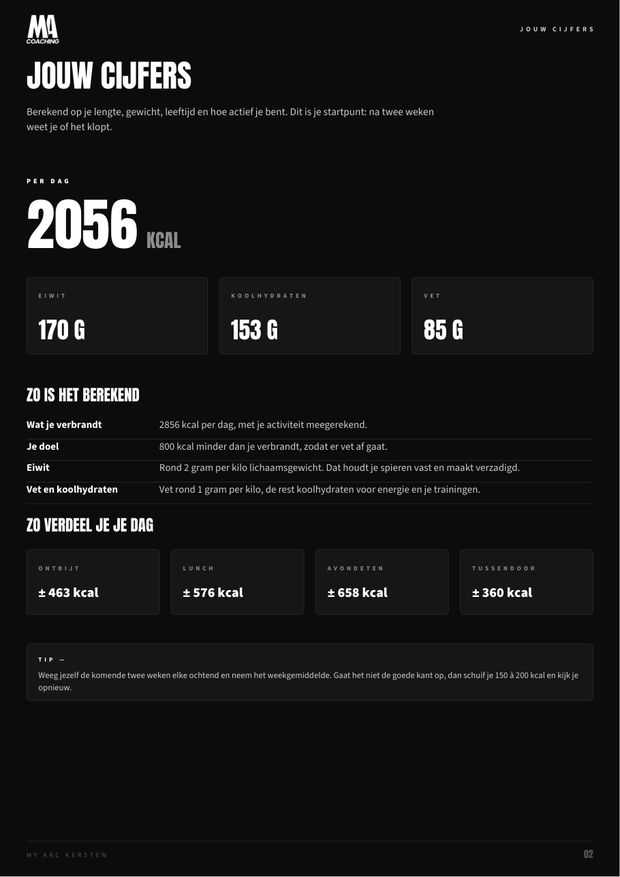
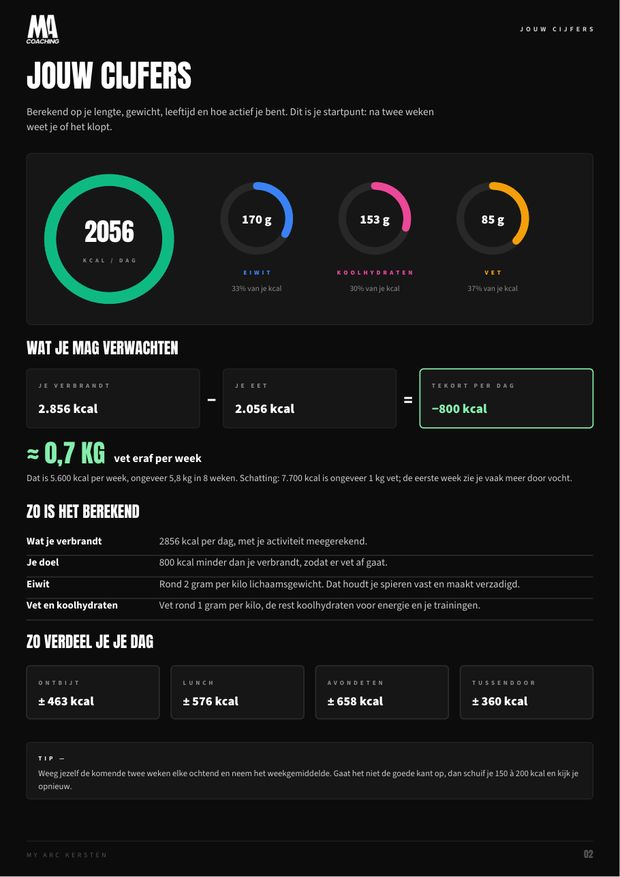
auto-sync 2026-10-23 14:07:20

diff --git a/src/pages/MijnMenu.jsx b/src/pages/MijnMenu.jsx
@@ -9,14 +9,14 @@
 // mijn-menu/menuRegels.js. PDF: mijn-menu/menuPdf.js. Meting: meet() met pad
 // /mijn-menu, in het Ads-scherm als eigen pagina.
 import { useEffect, useRef, useState } from 'react'
-import { ArrowLeft, ArrowRight, Check, Download, Loader2, X, RefreshCw } from 'lucide-react'
+import { ArrowLeft, ArrowRight, Check, Download, Loader2, X, RefreshCw, Flame, Wheat, Egg, Droplet } from 'lucide-react'
 import db from '../services/DatabaseService'
 import { herkomst, meet } from './challengeTracking'
 import { Optie, LeadMagnetPagina, GegevensVelden } from './leadmagnet/Bouwstenen'
 import { CTA_GROEN, WIT, ZWAK, FONT, emailOk, knopWit, invoer, bewaardeGegevens, onthoudGegevens } from './leadmagnet/stijl'
 import {
   DOELEN, GESLACHT, ACTIVITEIT, MAALTIJDEN, VARIATIE, vasteMomenten, DIEET, LUST_NIET, MOMENT_NAAM, DAGEN,
-  berekenDoel, groepeer, maakWeek, wissel, alternatievenVoor, dagTotaal, hoeveel, verwachting, kgTekst,
+  berekenDoel, groepeer, maakWeek, wissel, alternatievenVoor, dagTotaal, hoeveel, verwachting, kgTekst, MACRO, aandeel,
 } from './mijn-menu/menuRegels'
 import { maakMenuPdf, fotoUrl } from './mijn-menu/menuPdf'
 import { mailPdf } from './leadmagnet/mailPdf'
@@ -347,15 +347,9 @@ function MenuOverzicht({ m, cijfers, week, vast = [], groepen, onWissel, onDownl
 
   return (
     <div style={{ marginTop: '1.6rem' }}>
-      {/* Je cijfers */}
-      <div style={{ display: 'grid', gridTemplateColumns: 'repeat(4, 1fr)', gap: 6 }}>
-        {[['Per dag', `${cijfers.kcal}`, 'kcal'], ['Eiwit', `${cijfers.eiwit}`, 'g'], ['Koolh.', `${cijfers.kh}`, 'g'], ['Vet', `${cijfers.vet}`, 'g']].map(([l, w, e]) => (
-          <div key={l} style={{ padding: '0.7rem 0.6rem', borderRadius: 12, border: '1px solid rgba(255,255,255,0.1)', background: 'rgba(255,255,255,0.03)', minWidth: 0 }}>
-            <div style={klein}>{l}</div>
-            <div style={{ fontSize: m ? '1.15rem' : '1.3rem', fontWeight: 900, marginTop: 3 }}>{w}<span style={{ fontSize: '0.75rem', color: ZWAK, marginLeft: 3 }}>{e}</span></div>
-          </div>
-        ))}
-      </div>
+      <Sectiekop nr={1} titel="Jouw cijfers" sub="Per dag, uitgerekend op jou" />
+      <MacroRingen m={m} cijfers={cijfers} />
+      <Sectiekop nr={2} titel="Zo werkt jouw dag" sub="Wat je verbrandt tegenover wat je eet" />
       <Verwachting m={m} v={verwachting(cijfers)} />
       {gemEiwit < cijfers.eiwit * 0.85 && (
         <div style={{ marginTop: 10, padding: '0.7rem 0.9rem', borderRadius: 12, border: '1px solid rgba(255,255,255,0.12)', fontSize: '0.84rem', fontWeight: 700, color: 'rgba(255,255,255,0.8)', lineHeight: 1.45 }}>
@@ -363,8 +357,8 @@ function MenuOverzicht({ m, cijfers, week, vast = [], groepen, onWissel, onDownl
         </div>
       )}
 
-      {/* Dagen */}
-      <div style={{ display: 'grid', gridTemplateColumns: 'repeat(7, 1fr)', gap: 5, marginTop: '1.1rem' }}>
+      <Sectiekop nr={3} titel="Jouw week" sub="Kies een dag; elke maaltijd met de hoeveelheden" />
+      <div style={{ display: 'grid', gridTemplateColumns: 'repeat(7, 1fr)', gap: 5 }}>
         {DAGEN.map((n, i) => (
           <button key={n} onClick={() => setDag(i)} style={{
             padding: '0.6rem 0', borderRadius: 10, cursor: 'pointer', fontFamily: 'inherit', fontSize: '0.85rem', fontWeight: 900,
@@ -373,10 +367,10 @@ function MenuOverzicht({ m, cijfers, week, vast = [], groepen, onWissel, onDownl
           }}>{n.slice(0, 2)}</button>
         ))}
       </div>
-      <div style={{ display: 'flex', justifyContent: 'space-between', alignItems: 'baseline', margin: '1rem 0 0.2rem' }}>
+      <div style={{ margin: '1rem 0 0.4rem' }}>
         <span style={{ fontSize: '1.15rem', fontWeight: 900, textTransform: 'uppercase' }}>{d.dag}</span>
-        <span style={{ fontSize: '0.82rem', fontWeight: 800, color: ZWAK }}>{t.kcal} kcal · {t.eiwit} g eiwit</span>
       </div>
+      <DagBalken t={t} cijfers={cijfers} />
       <div style={{ fontSize: '0.76rem', fontWeight: 700, color: ZWAK, display: 'flex', alignItems: 'center', gap: 6, marginBottom: 6 }}>
         <RefreshCw size={13} strokeWidth={2.6} /> {vast.length ? 'Wissel je een vaste maaltijd, dan geldt dat voor de hele week.' : 'Zin in iets anders? Tik op het pijltje om te wisselen.'}
       </div>
@@ -393,7 +387,7 @@ function MenuOverzicht({ m, cijfers, week, vast = [], groepen, onWissel, onDownl
               <div style={{ flex: 1, minWidth: 0 }}>
                 <div style={klein}>{MOMENT_NAAM[g.moment]}{g.gewisseld ? ' · gewisseld' : ''}</div>
                 <div style={{ fontSize: '0.98rem', fontWeight: 900, lineHeight: 1.25, marginTop: 3 }}>{g.naam}</div>
-                <div style={{ fontSize: '0.78rem', fontWeight: 800, color: ZWAK, marginTop: 3 }}>{g.kcal} kcal · {g.eiwit} g eiwit · {g.kh} g kh · {g.vet} g vet</div>
+                <MacroChips g={g} />
               </div>
               <button onClick={() => setOpen(isOpen ? null : p)} aria-label={`Wissel ${g.naam}`} aria-expanded={isOpen} style={{
                 width: 34, height: 34, flexShrink: 0, borderRadius: 9, cursor: 'pointer', alignSelf: 'flex-start',
@@ -446,6 +440,105 @@ function MenuOverzicht({ m, cijfers, week, vast = [], groepen, onWissel, onDownl
   )
 }
 
+// ── Kleur en ringen, zelfde taal als de macro's in de app ──────────────────
+const ICOON = { kcal: Flame, kh: Wheat, eiwit: Egg, vet: Droplet }
+
+function Ring({ size, stroke, deel, kleur, children }) {
+  const r = (size - stroke) / 2
+  const omtrek = 2 * Math.PI * r
+  return (
+    <div style={{ position: 'relative', width: size, height: size, flexShrink: 0 }}>
+      <svg width={size} height={size} style={{ transform: 'rotate(-90deg)' }}>
+        <circle cx={size / 2} cy={size / 2} r={r} stroke="rgba(255,255,255,0.08)" strokeWidth={stroke} fill="none" />
+        <circle cx={size / 2} cy={size / 2} r={r} stroke={kleur} strokeWidth={stroke} fill="none" strokeLinecap="round"
+          strokeDasharray={omtrek} strokeDashoffset={omtrek * (1 - Math.max(0, Math.min(1, deel)))}
+          style={{ transition: 'stroke-dashoffset 0.8s cubic-bezier(0.4,0,0.2,1)' }} />
+      </svg>
+      <div style={{ position: 'absolute', inset: 0, display: 'flex', flexDirection: 'column', alignItems: 'center', justifyContent: 'center', textAlign: 'center' }}>{children}</div>
+    </div>
+  )
+}
+
+// Kopje met nummer, zodat je ziet waar je bent: 1 cijfers, 2 je dag, 3 je week.
+function Sectiekop({ nr, titel, sub }) {
+  return (
+    <div style={{ display: 'flex', alignItems: 'center', gap: 10, margin: '1.6rem 0 0.75rem' }}>
+      <span style={{ width: 26, height: 26, borderRadius: '50%', background: WIT, color: '#000', fontSize: '0.8rem', fontWeight: 900, display: 'flex', alignItems: 'center', justifyContent: 'center', flexShrink: 0 }}>{nr}</span>
+      <div style={{ minWidth: 0 }}>
+        <div style={{ fontSize: '1.02rem', fontWeight: 900, letterSpacing: '-0.01em' }}>{titel}</div>
+        {sub && <div style={{ fontSize: '0.76rem', fontWeight: 700, color: ZWAK, marginTop: 1 }}>{sub}</div>}
+      </div>
+    </div>
+  )
+}
+
+// Grote kcal-ring met de drie macro's ernaast: elke ring toont welk deel van
+// je calorieën uit die macro komt.
+function MacroRingen({ m, cijfers }) {
+  const a = aandeel(cijfers)
+  const klein = m ? 64 : 72
+  return (
+    <div style={{ display: 'flex', alignItems: 'center', gap: m ? 10 : 16, padding: m ? '0.9rem' : '1rem 1.2rem', borderRadius: 16, border: '1px solid rgba(255,255,255,0.1)', background: 'rgba(255,255,255,0.02)' }}>
+      <Ring size={m ? 104 : 118} stroke={m ? 10 : 11} deel={1} kleur={MACRO.kcal.kleur}>
+        <Flame size={14} color={MACRO.kcal.kleur} />
+        <div style={{ fontSize: m ? '1.45rem' : '1.65rem', fontWeight: 900, letterSpacing: '-0.03em', lineHeight: 1.05 }}>{cijfers.kcal.toLocaleString('nl-NL')}</div>
+        <div style={{ fontSize: '0.6rem', fontWeight: 800, color: ZWAK, letterSpacing: '0.08em', textTransform: 'uppercase' }}>kcal / dag</div>
+      </Ring>
+      <div style={{ flex: 1, display: 'grid', gridTemplateColumns: 'repeat(3, 1fr)', gap: 4, minWidth: 0 }}>
+        {['eiwit', 'kh', 'vet'].map(k => {
+          const I = ICOON[k]
+          return (
+            <div key={k} style={{ display: 'flex', flexDirection: 'column', alignItems: 'center', gap: 4, minWidth: 0 }}>
+              <Ring size={klein} stroke={m ? 6 : 7} deel={a[k]} kleur={MACRO[k].kleur}>
+                <div style={{ fontSize: m ? '0.95rem' : '1.05rem', fontWeight: 900, color: WIT, lineHeight: 1 }}>{cijfers[k]}<span style={{ fontSize: '0.65em', color: ZWAK }}>g</span></div>
+              </Ring>
+              <div style={{ display: 'flex', alignItems: 'center', gap: 3, fontSize: '0.72rem', fontWeight: 900, color: MACRO[k].kleur }}>
+                <I size={11} color={MACRO[k].kleur} /> {MACRO[k].label}
+              </div>
+              <div style={{ fontSize: '0.64rem', fontWeight: 700, color: ZWAK, whiteSpace: 'nowrap' }}>{Math.round(a[k] * 100)}% kcal</div>
+            </div>
+          )
+        })}
+      </div>
+    </div>
+  )
+}
+
+// Per dag: vier dunne balken, wat de dag oplevert tegenover je doel.
+function DagBalken({ t, cijfers }) {
+  return (
+    <div style={{ display: 'grid', gridTemplateColumns: 'repeat(4, 1fr)', gap: 8, marginBottom: 8 }}>
+      {['kcal', 'eiwit', 'kh', 'vet'].map(k => {
+        const doel = cijfers[k] || 1
+        return (
+          <div key={k} style={{ minWidth: 0 }}>
+            <div style={{ display: 'flex', alignItems: 'baseline', gap: 3, whiteSpace: 'nowrap' }}>
+              <span style={{ fontSize: '0.86rem', fontWeight: 900, color: MACRO[k].kleur }}>{t[k]}{k === 'kcal' ? '' : 'g'}</span>
+              <span style={{ fontSize: '0.62rem', fontWeight: 800, color: ZWAK }}>{MACRO[k].label.toLowerCase()}</span>
+            </div>
+            <div style={{ height: 5, borderRadius: 3, background: 'rgba(255,255,255,0.08)', marginTop: 4, overflow: 'hidden' }}>
+              <div style={{ width: `${Math.min(100, (t[k] / doel) * 100)}%`, height: '100%', borderRadius: 3, background: MACRO[k].kleur }} />
+            </div>
+          </div>
+        )
+      })}
+    </div>
+  )
+}
+
+// De macro's van één maaltijd als gekleurde chips.
+function MacroChips({ g }) {
+  return (
+    <div style={{ display: 'flex', flexWrap: 'wrap', gap: 4, marginTop: 6 }}>
+      {['kcal', 'eiwit', 'kh', 'vet'].map(k => (
+        <span key={k} style={{ fontSize: '0.7rem', fontWeight: 900, padding: '2px 7px', borderRadius: 999, color: MACRO[k].kleur, background: `${MACRO[k].kleur}1f` }}>
+          {g[k]}{k === 'kcal' ? ' kcal' : `g ${MACRO[k].label.toLowerCase().replace('.', '')}`}
+        </span>
+      ))}
+    </div>
+  )
+}
+
 // Wat je verbrandt, wat je eet, het verschil en wat dat oplevert, als één
 // rekensom: verbranding − eten = tekort → kilo's.
 const duizend = (n) => Math.round(n).toLocaleString('nl-NL')
@@ -461,8 +554,7 @@ function Verwachting({ m, v }) {
   )
   const teken = (t) => <span style={{ alignSelf: 'center', fontSize: '1rem', fontWeight: 900, color: ZWAK, flexShrink: 0 }}>{t}</span>
   return (
-    <div style={{ marginTop: 10, padding: m ? '0.9rem' : '1rem 1.1rem', borderRadius: 14, border: '1px solid rgba(255,255,255,0.1)', background: 'rgba(255,255,255,0.02)' }}>
-      <div style={{ fontSize: '0.95rem', fontWeight: 900, marginBottom: 10 }}>Zo werkt jouw dag</div>
+    <div style={{ padding: m ? '0.9rem' : '1rem 1.1rem', borderRadius: 14, border: '1px solid rgba(255,255,255,0.1)', background: 'rgba(255,255,255,0.02)' }}>
       <div style={{ display: 'flex', gap: 6 }}>
         {vak('Je verbrandt', `${duizend(v.tdee)}`)}
         {teken('−')}

diff --git a/src/pages/mijn-menu/menuPdf.js b/src/pages/mijn-menu/menuPdf.js
@@ -10,7 +10,7 @@
 import jsPDF from 'jspdf'
 import { resolveFoodImage } from '../../modules/meal-plan/foodImageFallback'
 import { B, H, M, KAART, LIJN, WIT, ZACHT, GRIJS, DOF, laad, naarBase64, FONTS, tweeCijfers, LOGO_VERHOUDING, maakTekenaar } from '../mijn-split/splitPdf'
-import { DOELEN, MOMENT_NAAM, MOMENTEN, dagTotaal, hoeveel, boodschappen, verwachting, kgTekst } from './menuRegels'
+import { DOELEN, MOMENT_NAAM, MOMENTEN, dagTotaal, hoeveel, boodschappen, verwachting, kgTekst, MACRO, aandeel } from './menuRegels'
 
 const laadMenu = async (bestand) => {
   const r = await fetch(`/mijn-menu/${bestand}`)
@@ -64,6 +64,22 @@ export async function maakMenuPdf({ voornaam, doel, cijfers, week, aantal }) {
   const gemiddeld = week.map(dagTotaal).reduce((t, d) => ({ kcal: t.kcal + d.kcal / 7, eiwit: t.eiwit + d.eiwit / 7 }), { kcal: 0, eiwit: 0 })
   const doelLabel = DOELEN.find(d => d.key === doel)?.label || ''
 
+  // Ring: grijze baan met een gekleurde boog vanaf boven, met de klok mee.
+  const ring = (cx, cy, r, w, deel, rgb) => {
+    doc.setLineWidth(w); doc.setDrawColor(40, 40, 40); doc.circle(cx, cy, r, 'S')
+    const d = Math.max(0, Math.min(1, deel))
+    if (d <= 0) return
+    doc.setDrawColor(...rgb); doc.setLineCap('round')
+    const n = Math.max(2, Math.ceil(d * 90))
+    let px = cx, py = cy - r
+    for (let j = 1; j <= n; j++) {
+      const hoek = -Math.PI / 2 + (j / n) * d * 2 * Math.PI
+      const x = cx + r * Math.cos(hoek), y = cy + r * Math.sin(hoek)
+      doc.line(px, py, x, y); px = x; py = y
+    }
+    doc.setLineCap('butt')
+  }
+
   const fotoVak = (g, x, y, w) => {
     const data = fotoVan[g.naam]
     doc.setFillColor(...KAART); doc.roundedRect(x, y, w, w, 1.5, 1.5, 'F')
@@ -92,17 +108,20 @@ export async function maakMenuPdf({ voornaam, doel, cijfers, week, aantal }) {
   font('Source', 'normal', 10); kleur(ZACHT)
   doc.text(doc.splitTextToSize('Berekend op je lengte, gewicht, leeftijd en hoe actief je bent. Dit is je startpunt: na twee weken weet je of het klopt.', 140), M, 39, { lineHeightFactor: 1.45 })
   // Groot getal
-  label('Per dag', M, 57, { pt: 6.5, c: WIT, stijl: 'black' })
-  font('Anton', 'normal', 50); kleur(WIT); doc.text(String(cijfers.kcal), M, 77)
-  const kw = doc.getTextWidth(String(cijfers.kcal))
-  font('Anton', 'normal', 18); kleur(GRIJS); doc.text('KCAL', M + kw + 3, 77)
-  // Macro's als drie vakken
-  const vakW = (B - 2 * M - 8) / 3
-  ;[['Eiwit', cijfers.eiwit], ['Koolhydraten', cijfers.kh], ['Vet', cijfers.vet]].forEach(([l, g], k) => {
-    const x = M + k * (vakW + 4)
-    doc.setFillColor(...KAART); doc.setDrawColor(...LIJN); doc.setLineWidth(0.2); doc.roundedRect(x, 84, vakW, 22, 1.2, 1.2, 'FD')
-    label(l, x + 4, 90.5, { pt: 6, c: GRIJS })
-    font('Anton', 'normal', 20); kleur(WIT); doc.text(`${g} G`, x + 4, 102)
+  // Macroringen, zelfde kleuren als in de app: grote kcal-ring, en per macro
+  // welk deel van je calorieën eruit komt.
+  doc.setFillColor(...KAART); doc.setDrawColor(...LIJN); doc.setLineWidth(0.2)
+  doc.roundedRect(M, 52, B - 2 * M, 58, 1.5, 1.5, 'FD')
+  ring(M + 28, 81, 20, 4, 1, MACRO.kcal.rgb)
+  font('Anton', 'normal', 24); kleur(WIT); doc.text(String(cijfers.kcal), M + 28, 82, { align: 'center' })
+  label('kcal / dag', M + 28, 89, { pt: 5.6, c: GRIJS, align: 'center' })
+  const a = aandeel(cijfers)
+  ;[['eiwit', 'Eiwit'], ['kh', 'Koolhydraten'], ['vet', 'Vet']].forEach(([k, l], i) => {
+    const cx = M + 78 + i * 40
+    ring(cx, 74, 11, 2.6, a[k], MACRO[k].rgb)
+    font('Source', 'black', 12); kleur(WIT); doc.text(`${cijfers[k]} g`, cx, 75.8, { align: 'center' })
+    label(l, cx, 93, { pt: 6, c: MACRO[k].rgb, stijl: 'black', align: 'center' })
+    font('Source', 'normal', 7.5); kleur(GRIJS); doc.text(`${Math.round(a[k] * 100)}% van je kcal`, cx, 98.5, { align: 'center' })
   })
   // Wat je mag verwachten: verbranding − eten = verschil → kilo's.
   const v = verwachting(cijfers)
@@ -181,13 +200,14 @@ export async function maakMenuPdf({ voornaam, doel, cijfers, week, aantal }) {
   week.forEach(d => {
     const rijH = 30
     font('Anton', 'normal', 14); kleur(WIT); doc.text(d.dag.slice(0, 2).toUpperCase(), M, y + 9)
-    font('Source', 'normal', 7.5); kleur(GRIJS); doc.text(`${dagTotaal(d).kcal} kcal`, M, y + 14)
+    font('Source', 'bold', 7.5); doc.setTextColor(...MACRO.kcal.rgb); doc.text(`${dagTotaal(d).kcal} kcal`, M, y + 14)
     d.maaltijden.forEach((g, k) => {
       const x = kolomX[0] + k * kolomW
       if (g.leeg) return
       font('Source', 'bold', 8.3); kleur(WIT)
       doc.text(doc.splitTextToSize(g.naam, kolomW - 4).slice(0, 3), x, y + 7, { lineHeightFactor: 1.25 })
-      font('Source', 'normal', 7); kleur(GRIJS); doc.text(`${g.kcal} kcal · ${g.eiwit} g eiwit`, x, y + rijH - 6)
+      font('Source', 'bold', 7); doc.setTextColor(...MACRO.kcal.rgb); doc.text(`${g.kcal} kcal`, x, y + rijH - 6)
+      const kw2 = doc.getTextWidth(`${g.kcal} kcal  `); doc.setTextColor(...MACRO.eiwit.rgb); doc.text(`${g.eiwit} g eiwit`, x + kw2, y + rijH - 6)
     })
     y += rijH
     doc.setDrawColor(...LIJN); doc.line(M, y, B - M, y)
@@ -199,16 +219,19 @@ export async function maakMenuPdf({ voornaam, doel, cijfers, week, aantal }) {
     nieuwePagina(d.dag)
     font('Anton', 'normal', 34); kleur(WIT); doc.text(d.dag.toUpperCase(), M, 32)
     const t = dagTotaal(d)
-    const stats = [['Calorieën', `${t.kcal} kcal`], ['Eiwit', `${t.eiwit} g`], ['Koolhydraten', `${t.kh} g`], ['Vet', `${t.vet} g`]]
+    // Dagtotalen in de macrokleuren, met per macro een balkje tegenover je doel.
+    const stats = [['kcal', 'Calorieën', `${t.kcal} kcal`], ['eiwit', 'Eiwit', `${t.eiwit} g`], ['kh', 'Koolhydraten', `${t.kh} g`], ['vet', 'Vet', `${t.vet} g`]]
     const sw = (B - 2 * M) / 4
     doc.setDrawColor(...LIJN); doc.setLineWidth(0.2); doc.line(M, 38, B - M, 38)
-    stats.forEach(([l, w], k) => {
-      const x = M + k * sw + (k ? 4 : 0)
-      if (k) doc.line(x - 4, 41, x - 4, 50)
-      label(l, x, 44, { pt: 6, c: WIT, stijl: 'black' })
-      font('Source', 'bold', 11); kleur(WIT); doc.text(w, x, 49.5)
+    stats.forEach(([k, l, w], i) => {
+      const x = M + i * sw + (i ? 4 : 0)
+      const bw = sw - (i ? 8 : 4)
+      label(l, x, 44, { pt: 6, c: MACRO[k].rgb, stijl: 'black' })
+      font('Source', 'black', 11.5); doc.setTextColor(...MACRO[k].rgb); doc.text(w, x, 49.5)
+      doc.setFillColor(40, 40, 40); doc.roundedRect(x, 51.3, bw, 1.3, 0.6, 0.6, 'F')
+      doc.setFillColor(...MACRO[k].rgb); doc.roundedRect(x, 51.3, Math.max(1.3, bw * Math.min(1, t[k] / (cijfers[k] || 1))), 1.3, 0.6, 0.6, 'F')
     })
-    doc.line(M, 54, B - M, 54)
+    doc.setDrawColor(...LIJN); doc.setLineWidth(0.2); doc.line(M, 55, B - M, 55)
     const vakH = (H - 62 - 16) / d.maaltijden.length
     d.maaltijden.forEach((g, k) => {
       const y0 = 60 + k * vakH
@@ -225,8 +248,12 @@ export async function maakMenuPdf({ voornaam, doel, cijfers, week, aantal }) {
       const titel = doc.splitTextToSize(g.naam, breed).slice(0, 2)
       doc.text(titel, x, y0 + 10.5, { lineHeightFactor: 1.15 })
       let yy = y0 + 10.5 + titel.length * 5.2
-      font('Source', 'bold', 8.5); kleur(ZACHT)
-      doc.text(`${g.kcal} kcal   ·   ${g.eiwit} g eiwit   ·   ${g.kh} g kh   ·   ${g.vet} g vet`, x, yy)
+      // Macro's van de maaltijd, elk in zijn kleur.
+      font('Source', 'black', 8.5)
+      let mx = x
+      ;[['kcal', `${g.kcal} kcal`], ['eiwit', `${g.eiwit} g eiwit`], ['kh', `${g.kh} g kh`], ['vet', `${g.vet} g vet`]].forEach(([k, txt]) => {
+        doc.setTextColor(...MACRO[k].rgb); doc.text(txt, mx, yy); mx += doc.getTextWidth(txt) + 5
+      })
       yy += 5.5
       // Ingrediënten in twee kolommen.
       font('Source', 'normal', 8.3); kleur(ZACHT)

diff --git a/src/pages/mijn-menu/menuRegels.js b/src/pages/mijn-menu/menuRegels.js
@@ -306,3 +306,17 @@ export function verwachting(cijfers, doel) {
       : 'Je gewicht blijft ongeveer gelijk: vet eraf en spier erbij gaat tegelijk.'
   return { tdee: cijfers.tdee, eet: cijfers.kcal, perDag, perWeek, kgPerWeek, kgIn8: kgPerWeek * 8, soort, zin, doel }
 }
+
+// Kleuren per macro, zelfde als de ringen in de app (client/components/MacroBoxes).
+export const MACRO = {
+  kcal: { label: 'Kcal', kleur: '#10b981', rgb: [16, 185, 129] },
+  kh: { label: 'Koolh.', kleur: '#ec4899', rgb: [236, 72, 153] },
+  eiwit: { label: 'Eiwit', kleur: '#3b82f6', rgb: [59, 130, 246] },
+  vet: { label: 'Vet', kleur: '#f59e0b', rgb: [245, 158, 11] },
+}
+// Welk deel van de calorieën uit een macro komt (eiwit/kh 4 kcal per gram, vet 9).
+export const aandeel = (c) => {
+  const k = { eiwit: c.eiwit * 4, kh: c.kh * 4, vet: c.vet * 9 }
+  const tot = k.eiwit + k.kh + k.vet || 1
+  return { eiwit: k.eiwit / tot, kh: k.kh / tot, vet: k.vet / tot }
+}
